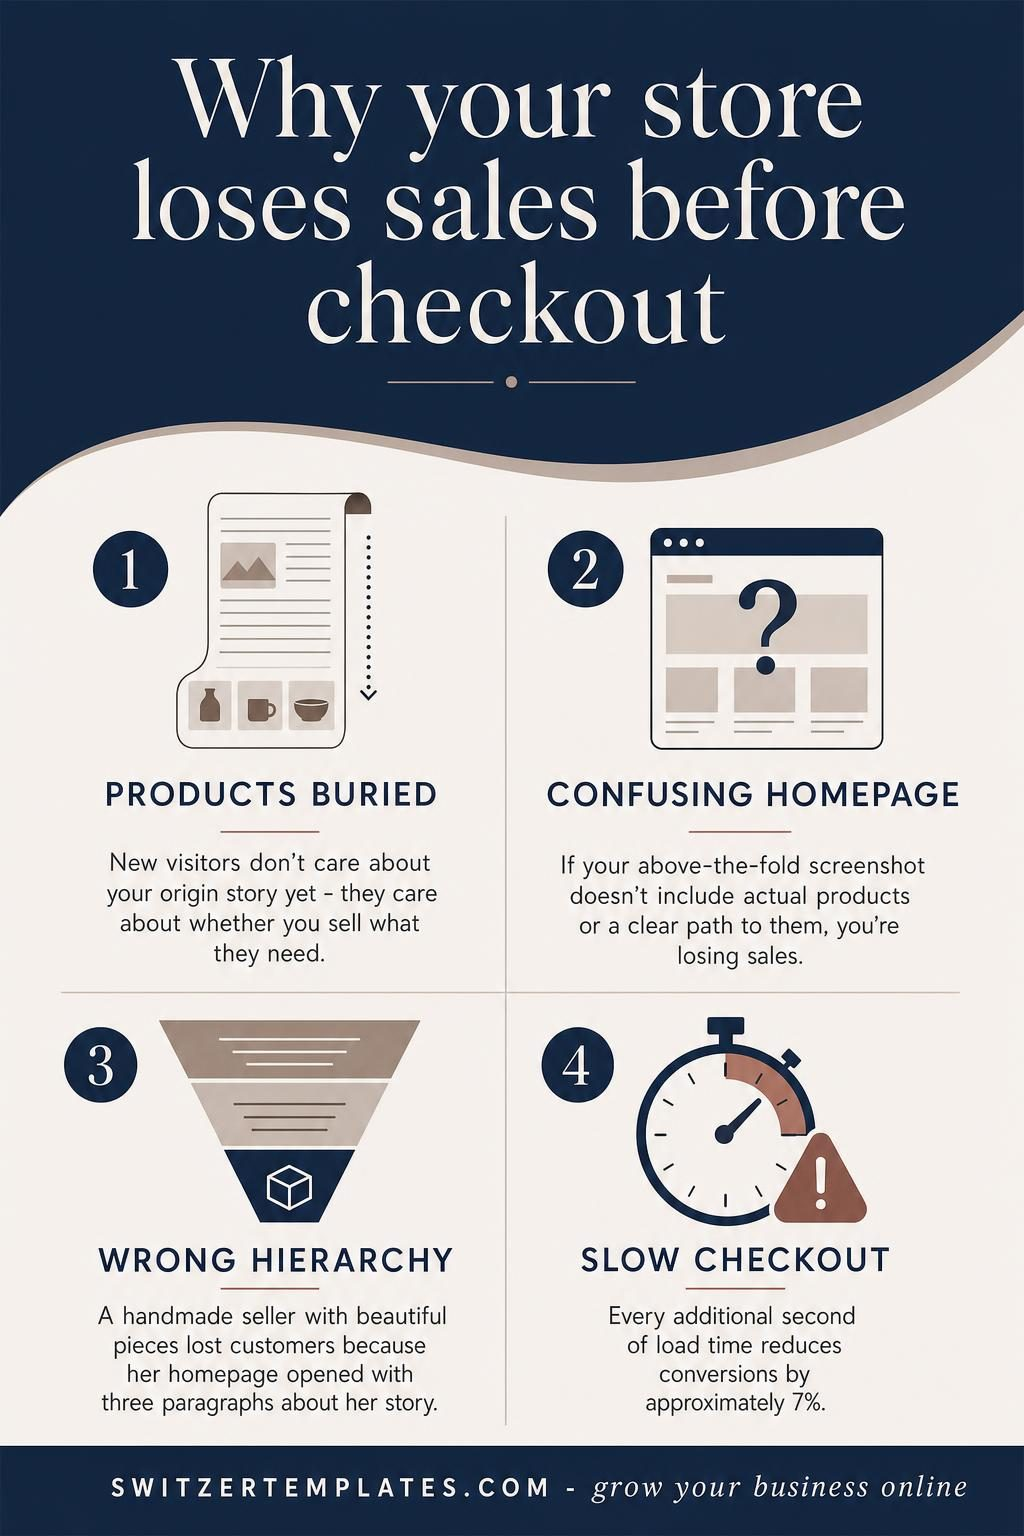
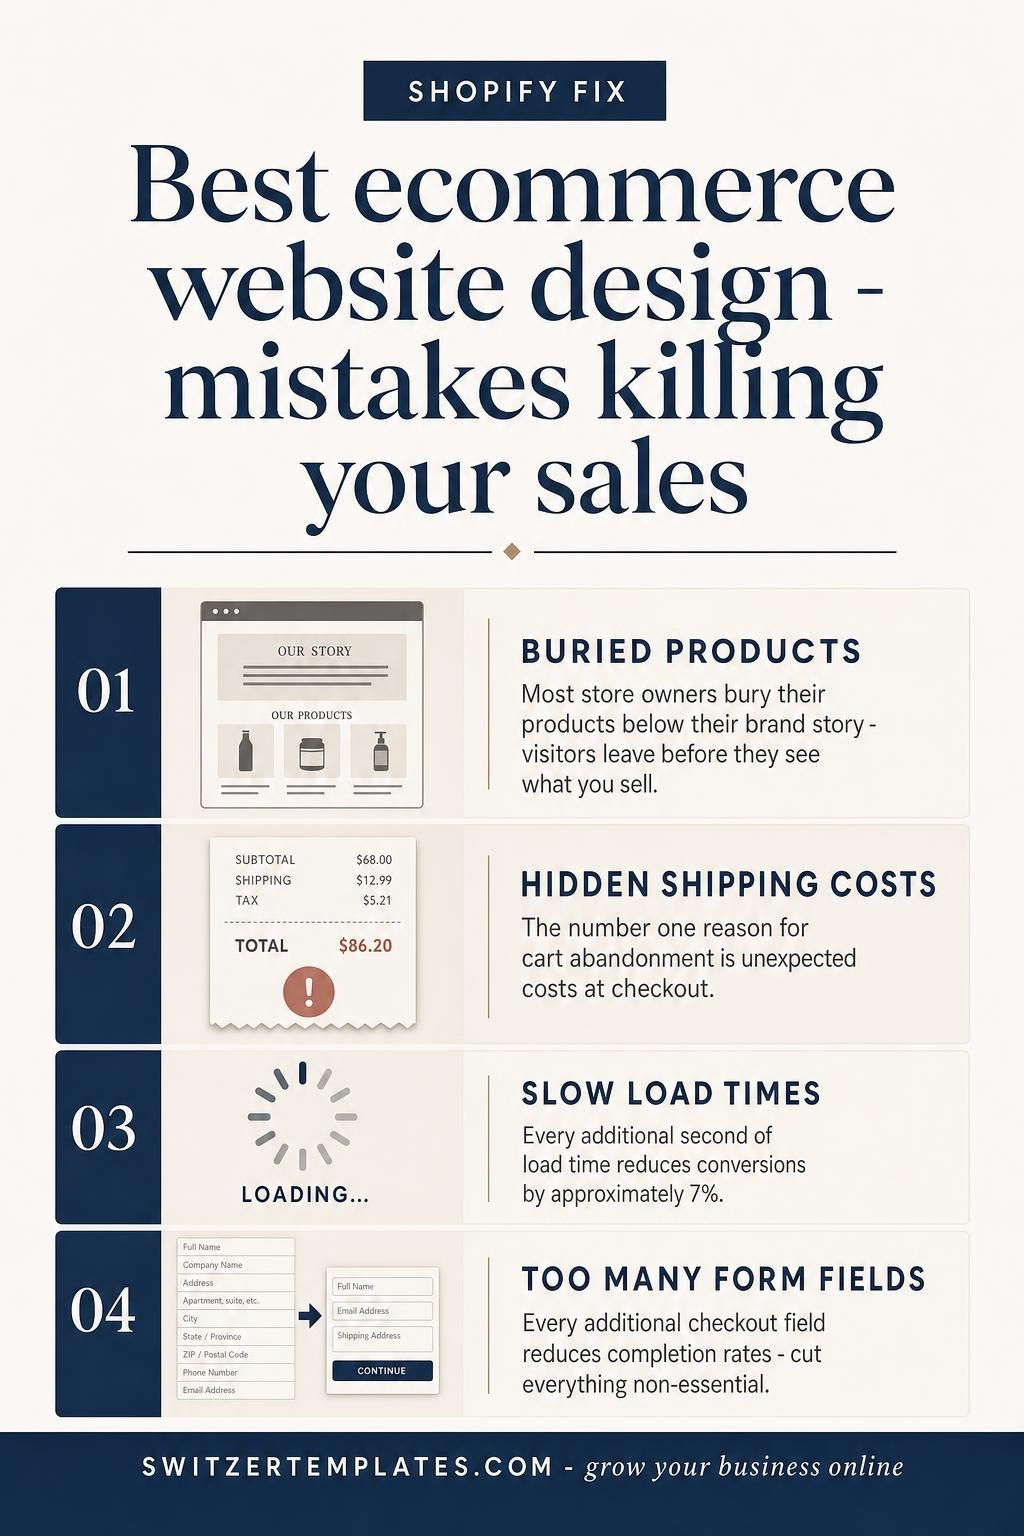
Fix pin headline drift: anchor every headline to the post title, not random sub-topics
Jane flagged best-ecommerce-website-design's pins as disconnected from the
post - 4 of 5 headlines were pulled from sub-sections/anecdotes deep in
the post ("Why your store loses sales before checkout", "The homepage
change that increased conversions") instead of the post's actual title/
keyword. Root cause: pin_writer.py's TITLE_ANGLES rotation was allowed to
pull each angle from anywhere in the post. This worked by accident on
narrow comparison-keyword posts (shopify-vs-wix-for-ecommerce, previously
approved - all 5 stayed tied to "Shopify vs Wix" because there was nowhere
else to pull from) but broke down on a broad, multi-section post with
more unrelated material to drift into.

Added a non-negotiable anchor rule: every headline must be a rephrasing
of POST TITLE/KEYWORD, or the title paired with a catchy subtitle/hook -
angle now changes framing/tone only, never the topic. Verified on the
real failing post before regenerating: all 5 new headlines clearly read
"best ecommerce website design" with a different hook each. Regenerated
all 5 pin images - confirmed visually, clean anchored titles, good design.

diff --git a/agents/blog-seo-agent/pinterest-pins/pin_writer.py b/agents/blog-seo-agent/pinterest-pins/pin_writer.py
@@ -90,16 +90,38 @@ real proper nouns (Pinterest, Etsy, Instagram, Wix, Shopify, Canva, Google, Jane
 Switzertemplates), and acronyms (SEO, DIY, URL, CTA, FAQ) always stay capitalized regardless
 of position.
 
-TITLE ANGLES — rotate a genuinely different angle across the 5 variations, not the same
-angle reworded 5 times: {", ".join(TITLE_ANGLES)}.
+TITLE ANCHOR — NON-NEGOTIABLE: every one of the 5 headlines must be instantly recognizable
+as THIS post — a rephrasing of POST TITLE / KEYWORD, or POST TITLE (or a close variant of it)
+paired with a short catchy subtitle. NEVER build a headline around a random fact, anecdote,
+or sub-section pulled from partway through the post — confirmed real failure mode: for a
+post titled "Best Ecommerce Website Design: What Actually Makes A Shopify Store Convert",
+headlines like "Why your store loses sales before checkout" or "The homepage change that
+increased conversions" got written — both are real things the post discusses, but neither
+one tells a Pinterest user what post this actually is, and someone searching the actual
+keyword would never recognize this pin as an answer. A reader glancing at all 5 pins should
+immediately see they're all for the same post, just worded differently — exactly like:
+"Shopify vs Wix for ecommerce", "Which platform fits your business", "Shopify vs Wix - how
+to decide", "Wix vs Shopify for coaches", "Shopify or Wix for ecommerce" (5 real approved
+headlines for one post — every single one still says "Shopify vs Wix" or the equivalent).
+
+TITLE ANGLES — the angle changes the FRAMING/HOOK around the anchored title (benefit-led,
+problem-led, result-led, comparison-led, transformation-led: {", ".join(TITLE_ANGLES)}) —
+it never changes WHAT the headline is about. Angle changes tone, not topic.
 
 TWO DIFFERENT TITLE FIELDS — do not confuse these:
 - seo_title: a full, natural sentence (8-15 words) for Pinterest's own SEO/search — this is
-  what shows in the Pinterest feed and search results, not baked into the image.
+  what shows in the Pinterest feed and search results, not baked into the image. Still
+  anchored to POST TITLE/KEYWORD per the rule above.
 - image_headline: SHORT — a few words to one short phrase, close to the actual keyword, NOT
   a full sentence, NOT a clever tagline. This is the text rendered directly on the pin design.
+  If image_eyebrow is used, the headline+eyebrow pair may split into "anchored title" +
+  "catchy subtitle/hook" (eyebrow or headline can carry the hook half) — but the post's real
+  identity (title/keyword) must still be legible in the pair, not just the hook.
   Good examples: {GOOD_IMAGE_HEADLINES}
   Bad examples — too long, reads like a sentence, never do this: {BAD_IMAGE_HEADLINES}
+  Also bad — anchored to a sub-topic instead of the post itself, never do this: "Why your
+  store loses sales before checkout" or "The homepage change that increased conversions"
+  when the actual post title is about ecommerce website design broadly.
 
 PIN ITEMS — the real substance, grounded in the actual post sections given to you. Pull from
 what the post really argues, in the post's own real structure. If the post has genuinely
